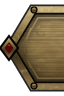
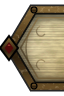
Backdrop: a carved doorway in dusk light; pale brass buttons
The backdrop is a pointed doorway in the middle of a grey-black wall, its
frame carved in receding orders (bead, dog-tooth, voussoirs with sunk
panels, a hood with crockets, capitals, a keystone), with the light of
dusk slanting down from the top right in three layers of shafts at
different depths, drifting slowly. The brass buttons have a pale face and
dark bronze trim.

diff --git a/gate.ts b/gate.ts
@@ -1,7 +1,10 @@
-// The launcher's backdrop, a WGSL shader: a gothic doorway at the top left, light pouring through a rose window
-// behind it, between fluted pillars on a wall of stone blocks; shafts of light, dust drifting in them, a pool of
-// light on the floor and mist, as Path of Exile 2's site opens.
+// The launcher's backdrop, a WGSL shader, after Path of Exile 2's site: a great pointed doorway in the middle of a
+// grey-black wall, its frame carved in receding orders — a bead, dog-tooth, voussoirs with sunk panels, a hood with
+// crockets, on shafts with capitals, a keystone — and the pale light of dusk slanting down from the top right in
+// shafts, three layers of them at different depths, drifting slowly; mist in the doorway, ash in the air.
 export const GATE = /* wgsl */ `
+const PI = 3.14159265;
+
 fn hash(p: vec2f) -> f32 {
   return fract(sin(dot(p, vec2f(127.1, 311.7))) * 43758.5453);
 }
@@ -17,6 +20,12 @@ fn noise(p: vec2f) -> f32 {
   return mix(mix(hash(i), hash(i + vec2f(1.0, 0.0)), u.x), mix(hash(i + vec2f(0.0, 1.0)), hash(i + vec2f(1.0, 1.0)), u.x), u.y);
 }
 
+fn noise1(x: f32) -> f32 {
+  let i = floor(x);
+  let f = fract(x);
+  return mix(hash(vec2f(i, 0.0)), hash(vec2f(i + 1.0, 0.0)), f * f * (3.0 - 2.0 * f));
+}
+
 fn fbm(p: vec2f) -> f32 {
   var v = 0.0;
   var a = 0.5;
@@ -29,40 +38,89 @@ fn fbm(p: vec2f) -> f32 {
   return v;
 }
 
-// Distance-ish to a pointed (equilateral) arch: centre x, half width, spring line, bottom. Negative inside.
-fn arch(p: vec2f, cx: f32, hw: f32, spring: f32, bottom: f32) -> f32 {
+const DOOR_HW = 0.27;
+const DOOR_SPRING = 0.5;
+const FLOOR = 0.95;
+const FRAME = 0.12;
+
+// Distance-ish to the pointed doorway: negative inside.
+fn doorway(p: vec2f, cx: f32) -> f32 {
   var d: f32;
-  if (p.y < spring) {
-    let r = hw * 2.0;
-    d = max(distance(p, vec2f(cx + hw, spring)) - r, distance(p, vec2f(cx - hw, spring)) - r);
+  if (p.y < DOOR_SPRING) {
+    let r = DOOR_HW * 2.0;
+    d = max(distance(p, vec2f(cx + DOOR_HW, DOOR_SPRING)) - r, distance(p, vec2f(cx - DOOR_HW, DOOR_SPRING)) - r);
   } else {
-    d = abs(p.x - cx) - hw;
+    d = abs(p.x - cx) - DOOR_HW;
   }
-  return max(d, p.y - bottom);
+  return max(d, p.y - FLOOR);
 }
 
-// Stone blocks: a running bond of rows; returns (mortar 0..1, the block's own shade).
+// Where along the frame p is: down the jambs from the spring line (negative), round the arch towards the apex.
+fn along(p: vec2f, cx: f32) -> f32 {
+  if (p.y >= DOOR_SPRING) {
+    return -(p.y - DOOR_SPRING);
+  }
+  let side = sign(p.x - cx);
+  let v = p - vec2f(cx - side * DOOR_HW, DOOR_SPRING);
+  return atan2(-v.y, abs(v.x)) * DOOR_HW * 2.0;
+}
+
 fn masonry(p: vec2f) -> vec2f {
-  let rowH = 0.052;
+  let rowH = 0.055;
   let row = floor(p.y / rowH);
-  let blockW = 0.11 + 0.03 * hash(vec2f(row, 7.0));
+  let blockW = 0.12 + 0.04 * hash(vec2f(row, 7.0));
   let x = p.x / blockW + 0.5 * (row % 2.0);
-  let cell = vec2f(floor(x), row);
   let f = vec2f(fract(x) * blockW, fract(p.y / rowH) * rowH);
   let edge = min(min(f.x, blockW - f.x), min(f.y, rowH - f.y));
-  let mortar = smoothstep(0.0035, 0.0, edge);
-  return vec2f(mortar, hash(cell));
+  return vec2f(smoothstep(0.004, 0.0, edge), hash(vec2f(floor(x), row)));
 }
 
-// Tracery of a rose window: a ring, spokes and an inner ring, as a mask of stone.
-fn rose(p: vec2f, c: vec2f, r: f32) -> f32 {
-  let q = p - c;
-  let d = length(q);
-  let a = atan2(q.y, q.x);
-  let ring = smoothstep(0.006, 0.0, abs(d - r)) + smoothstep(0.004, 0.0, abs(d - r * 0.45));
-  let spokes = smoothstep(0.004, 0.0, abs(sin(a * 6.0)) * d) * step(r * 0.45, d) * step(d, r);
-  let petals = smoothstep(0.004, 0.0, abs(length(q - normalize(q + vec2f(1e-5)) * r * 0.72) - r * 0.2)) * step(d, r);
-  return clamp(ring + spokes + petals * 0.8, 0.0, 1.0) * step(d, r + 0.01);
+// The carved frame's relief at p (0 deep .. 1 proud) and how far out p is in it (0 at the opening, 1 outside).
+fn carving(p: vec2f, cx: f32, dd: f32) -> vec2f {
+  let k = dd / FRAME;
+  let s = along(p, cx);
+  let jamb = p.y >= DOOR_SPRING;
+  var tone = 0.0;
+  if (k < 0.22) {
+    // A round bead.
+    tone = 0.25 + 0.75 * sin(k / 0.22 * PI);
+  } else if (k < 0.48) {
+    // Dog-tooth: little pyramids in a row.
+    let u = (k - 0.22) / 0.26;
+    let w = fract(s / 0.034);
+    tone = 0.12 + 0.88 * clamp(1.0 - abs(w - 0.5) * 2.0 - abs(u - 0.5) * 2.0, 0.0, 1.0);
+  } else if (k < 0.78) {
+    // Voussoirs (blocks on the jambs), each with a sunk panel.
+    let u = (k - 0.48) / 0.3;
+    let w = fract(s / select(0.07, 0.05, jamb));
+    let joint = smoothstep(0.06, 0.0, min(w, 1.0 - w));
+    let panel = step(0.18, u) * step(u, 0.82) * step(0.2, w) * step(w, 0.8);
+    tone = 0.55 - 0.3 * panel - 0.45 * joint + 0.15 * (1.0 - abs(u - 0.5) * 2.0);
+  } else {
+    // The hood: a ridge.
+    let u = (k - 0.78) / 0.22;
+    tone = 0.3 + 0.6 * sin(u * PI) * (0.8 + 0.2 * cos(u * 9.0));
+  }
+  // Capitals at the spring line, bases at the floor.
+  let capital = smoothstep(0.02, 0.0, abs(p.y - DOOR_SPRING - 0.01));
+  let leaf = 0.5 + 0.5 * sin(p.x * 220.0) * sin((p.y - DOOR_SPRING) * 240.0);
+  tone = mix(tone, 0.45 + 0.45 * leaf, capital);
+  let base = smoothstep(0.03, 0.0, abs(p.y - (FLOOR - 0.03))) * f32(jamb);
+  tone = mix(tone, 0.5 + 0.3 * cos((p.y - FLOOR) * 200.0), base);
+  return vec2f(tone * (0.6 + 0.6 * fbm(p * 26.0)), k);
+}
+
+// Shafts of dusk light slanting down from the top right: one layer at a given depth — its spacing, width, strength
+// and drift — as a pattern across the slant, fading as the light travels.
+fn shaftLayer(p: vec2f, aspect: f32, seed: f32, density: f32, width: f32, speed: f32, t: f32) -> f32 {
+  let dir = normalize(vec2f(-0.55, 1.0));
+  let across = vec2f(dir.y, -dir.x);
+  let x = dot(p, across);
+  let along = dot(p - vec2f(aspect, 0.0), dir);
+  let pattern = noise1(x * density + seed * 37.0 + t * speed);
+  let shaft = smoothstep(1.0 - width, 1.0, pattern);
+  let breakup = 0.6 + 0.4 * noise(vec2f(x * density * 0.5 + seed, along * 2.0 - t * speed * 0.6));
+  return shaft * breakup * exp(-max(along, 0.0) * 0.6);
 }
 
 fn shade(uv: vec2f) -> vec4f {
@@ -70,106 +128,91 @@ fn shade(uv: vec2f) -> vec4f {
   let p = vec2f(uv.x * aspect, uv.y);
   let t = nsh.time;
 
-  let cx = 0.22 * min(aspect, 1.8);
-  let lightPos = vec2f(cx, 0.3);
-  let lightCol = vec3f(0.74, 0.85, 1.0);
-  let toLight = distance(p, lightPos);
-  let lit = exp(-toLight * 2.0);
+  let cx = 0.5 * aspect;
+  // Dusk: a pale light, faintly warm, against grey-black stone.
+  let dusk = vec3f(0.95, 0.92, 0.86);
+  // The light falls from the top right.
+  let fromLight = exp(-distance(p, vec2f(aspect * 0.95, -0.1)) * 1.1);
 
-  // The wall: blocks of cold stone, weathered, lit from the door.
+  // The wall: grey-black blocks, stained and sooty.
   let m = masonry(p);
   let weather = fbm(p * 9.0);
-  // Grime: broad stains running down the wall, and soot.
   let stain = fbm(vec2f(p.x * 3.0, p.y * 0.8) + 11.0);
   let soot = smoothstep(0.35, 0.75, fbm(p * 2.2 + 5.0));
-  var col = vec3f(0.042, 0.045, 0.052) * (0.65 + 0.5 * m.y) * (0.45 + 0.9 * weather) * (0.55 + 0.6 * stain);
-  col *= 1.0 - 0.55 * soot;
-  col = mix(col, vec3f(0.008, 0.008, 0.01), m.x * 0.6 * (0.5 + weather));
-  col *= 0.55 + 1.5 * lit;
+  var col = vec3f(0.034, 0.034, 0.036) * (0.65 + 0.5 * m.y) * (0.45 + 0.9 * weather) * (0.55 + 0.6 * stain);
+  col *= 1.0 - 0.5 * soot;
+  col = mix(col, vec3f(0.005), m.x * 0.55);
+  col *= 0.5 + 1.6 * fromLight;
 
-  // Fluted pillars either side of the door, round and lit on the door's side.
-  for (var side = -1.0; side <= 1.0; side += 2.0) {
-    let px = cx + side * 0.23;
-    let w = 0.045;
-    let u = (p.x - px) / w;
-    if (abs(u) < 1.0 && p.y > 0.06) {
-      let round = sqrt(1.0 - u * u);
-      let flutes = 0.75 + 0.25 * cos(u * 18.0);
-      let facing = clamp(0.5 - 0.5 * u * side, 0.0, 1.0);
-      var pillar = vec3f(0.07, 0.075, 0.085) * round * flutes * (0.4 + 1.4 * facing * lit) * (0.7 + 0.5 * fbm(p * 14.0));
-      // A capital and a base.
-      let cap = smoothstep(0.012, 0.0, abs(p.y - 0.14)) + smoothstep(0.012, 0.0, abs(p.y - 0.86));
-      pillar += vec3f(0.09, 0.095, 0.11) * cap * (0.5 + facing * lit);
-      col = pillar;
+  // The frame, lit from the top right: the faces turned to the light are brighter.
+  let dd = doorway(p, cx);
+  let rightSide = smoothstep(-0.1, 0.25, p.x - cx);
+  if (dd > 0.0 && dd < FRAME) {
+    let carved = carving(p, cx, dd);
+    let lit = 0.45 + 1.8 * fromLight + 0.5 * rightSide * (1.0 - carved.y);
+    col = vec3f(0.058, 0.058, 0.06) * carved.x * lit;
+    col += dusk * 0.12 * smoothstep(0.004, 0.0, abs(dd - FRAME)) * (0.3 + rightSide);
+  }
+  // Crockets: leaves climbing the outer edge of the arch.
+  if (p.y < DOOR_SPRING && dd > FRAME && dd < FRAME + 0.022) {
+    let w = fract(along(p, cx) / 0.075);
+    let leaf = smoothstep(0.022, 0.0, (dd - FRAME) + abs(w - 0.5) * 0.06);
+    col = mix(col, vec3f(0.062, 0.062, 0.065) * (0.5 + 1.6 * fromLight), leaf);
+  }
+  // The keystone at the apex.
+  let apex = vec2f(cx, DOOR_SPRING - DOOR_HW * 1.732);
+  let ky = p.y - apex.y + 0.035;
+  let kw = 0.03 - ky * 0.25;
+  if (abs(p.x - cx) < kw && abs(ky) < 0.06 && dd > -0.01) {
+    col = vec3f(0.07, 0.07, 0.073) * (0.6 + 0.4 * fbm(p * 30.0)) * (0.6 + 1.5 * fromLight);
+    col += dusk * 0.15 * smoothstep(0.004, 0.0, abs(abs(p.x - cx) - kw));
+  }
+
+  // Beyond the door: a pale haze, brightest high on the right, mist drifting through it.
+  let open = step(dd, 0.0);
+  if (open > 0.5) {
+    let haze = fbm(p * vec2f(2.5, 1.8) + vec2f(-t * 0.02, t * 0.008));
+    let glow = smoothstep(0.9, -0.1, distance(p, vec2f(cx + 0.2, 0.15)));
+    col = mix(vec3f(0.05, 0.05, 0.055), dusk * 0.85, clamp(glow * (0.55 + 0.6 * haze), 0.0, 1.0));
+    // The floor beyond, catching the light.
+    if (p.y > FLOOR - 0.14) {
+      col *= 0.7 + 0.3 * fbm(vec2f(p.x * 18.0, (p.y - FLOOR) * 50.0));
     }
   }
+  // Light spilling round the doorway's edge onto the frame.
+  col += dusk * 0.1 * exp(-max(dd, 0.0) * 18.0) * (1.0 - open) * (0.4 + rightSide);
 
-  // Receding orders of the arch, each a step deeper and darker.
-  let d0 = arch(p, cx, 0.1, 0.24, 0.84);
-  for (var k = 3.0; k >= 1.0; k -= 1.0) {
-    let dk = arch(p, cx, 0.1 + 0.022 * k, 0.24, 0.84 + 0.012 * k);
-    let band = smoothstep(0.003, -0.003, dk) * smoothstep(-0.003, 0.003, arch(p, cx, 0.1 + 0.022 * (k - 1.0), 0.24, 0.84 + 0.012 * (k - 1.0)));
-    let stone = vec3f(0.08, 0.085, 0.095) * (0.45 + 0.25 * (3.0 - k)) * (0.6 + 0.7 * fbm(p * 20.0 + k));
-    col = mix(col, stone * (0.6 + 1.8 * lit), band);
-    // The edge of each order catches the light.
-    col += lightCol * 0.12 * lit * smoothstep(0.004, 0.0, abs(dk));
-  }
+  // Shafts of dusk light from the top right, three layers at different depths: near ones broad, bright and slow,
+  // far ones fine, faint and quicker. They are seen against the dark, less so against the light.
+  let far = shaftLayer(p, aspect, 1.0, 9.0, 0.4, 0.05, t) * 0.22;
+  let mid = shaftLayer(p, aspect, 2.0, 5.0, 0.36, 0.03, t) * 0.34;
+  let nearL = shaftLayer(p, aspect, 3.0, 2.6, 0.3, 0.018, t) * 0.45;
+  let shafts = (far + mid + nearL) * (0.6 + 0.6 * fbm(p * 2.5 + vec2f(t * 0.03, 0.0)));
+  col += dusk * shafts * (1.0 - 0.5 * open);
 
-  // Through the door: the light, fog drifting over it, and the rose window's tracery against it.
-  let inside = smoothstep(0.003, -0.003, d0);
-  let fog = fbm(p * 3.0 + vec2f(t * 0.03, -t * 0.018));
-  let core = exp(-pow(length((p - lightPos) * vec2f(1.0, 0.7)) * 3.4, 1.3));
-  var door = mix(vec3f(0.05, 0.08, 0.14), lightCol * 0.95, core) * (0.7 + 0.5 * fog);
-  let tracery = rose(p, lightPos, 0.075);
-  door = mix(door, vec3f(0.03, 0.035, 0.05), tracery * 0.85);
-  // Mullions under the rose.
-  let mull = smoothstep(0.003, 0.0, abs(p.x - cx)) * step(lightPos.y + 0.075, p.y);
-  door = mix(door, vec3f(0.03, 0.035, 0.05), mull * 0.8);
-  col = mix(col, door, inside);
-
-  // Shafts of light fanning down and out of the door, slowly turning.
-  let outside = 1.0 - inside;
-  let dir = p - lightPos;
-  let angle = atan2(dir.y, dir.x);
-  let shafts = pow(noise(vec2f(angle * 7.0 + t * 0.05, 3.0)), 2.5) * 0.7 + pow(noise(vec2f(angle * 15.0 - t * 0.08, 9.0)), 4.0) * 0.5;
-  let fall = exp(-length(dir) * 1.4) * smoothstep(-0.2, 0.6, dir.y / (length(dir) + 1e-4));
-  col += lightCol * 0.2 * shafts * fall * outside;
-  // Spill onto the stone around the door.
-  col += lightCol * 0.22 * exp(-max(d0, 0.0) * 9.0) * outside * (0.7 + 0.3 * fog);
-
-  // Dust drifting up through the light.
-  var dust = 0.0;
+  // Ash drifting down through the light.
+  var ash = 0.0;
   for (var layer = 0.0; layer < 3.0; layer += 1.0) {
-    let scale = 26.0 + layer * 14.0;
-    let q = p * scale + vec2f(layer * 13.1, t * (0.25 + 0.1 * layer));
-    let cell = floor(q);
-    let jitter = hash2(cell + layer);
-    let speck = 1.0 - smoothstep(0.0, 0.06 + 0.04 * jitter.x, length(fract(q) - jitter));
-    let twinkle = 0.5 + 0.5 * sin(t * (1.0 + 2.0 * jitter.y) + jitter.x * 6.28);
-    dust += speck * twinkle * step(0.7, hash(cell + 3.1 + layer));
+    let scale = 22.0 + layer * 16.0;
+    let drift = vec2f(sin(t * 0.25 + layer) * 0.3 - t * 0.05, -t * (0.12 + 0.05 * layer));
+    let g = p * scale + drift + layer * 17.0;
+    let cell = floor(g);
+    let j = hash2(cell);
+    let speck = 1.0 - smoothstep(0.0, 0.05 + 0.05 * j.x, length(fract(g) - j));
+    ash += speck * step(0.74, hash(cell + 4.0));
   }
-  col += lightCol * dust * 0.55 * exp(-toLight * 2.6);
+  col += dusk * ash * 0.3 * (0.3 + shafts * 4.0);
 
-  // A pool of light on the floor below the door, and mist drifting across it.
-  let floorY = 0.86;
-  if (p.y > floorY) {
-    let fp = vec2f((p.x - cx) / (0.35 + (p.y - floorY) * 2.0), (p.y - floorY) * 6.0);
-    col += lightCol * 0.18 * exp(-dot(fp, fp) * 3.0);
-  }
-  let mist = fbm(p * vec2f(1.4, 3.5) + vec2f(-t * 0.022, 0.0));
-  col += vec3f(0.26, 0.31, 0.4) * mist * smoothstep(0.35, 1.0, uv.y) * 0.22;
-  // Haze hanging in the air.
-  col += vec3f(0.18, 0.21, 0.27) * fbm(p * 1.2 + vec2f(t * 0.01, t * 0.006)) * 0.06;
+  // Mist on the floor, haze in the air.
+  let mist = fbm(p * vec2f(1.4, 3.5) + vec2f(-t * 0.025, 0.0));
+  col += vec3f(0.2, 0.2, 0.21) * mist * smoothstep(0.45, 1.0, uv.y) * 0.2;
 
-  // Darker away from the light, so what is drawn over it reads.
-  let vig = smoothstep(1.3, 0.1, distance(uv, vec2f(0.22, 0.3)));
-  col *= 0.16 + 0.84 * vig;
-  // Black at the edges, as an old painting darkens.
+  // Black at the edges, deep shadows.
+  let vig = smoothstep(1.05, 0.15, distance(uv, vec2f(0.55, 0.45)));
+  col *= 0.08 + 0.92 * vig;
   let edge = uv * (1.0 - uv);
   col *= pow(clamp(edge.x * edge.y * 18.0, 0.0, 1.0), 0.35);
-  // Drained of colour but for the cold light.
-  let grey = dot(col, vec3f(0.3, 0.59, 0.11));
-  col = mix(vec3f(grey), col, 0.75);
+  col = pow(max(col, vec3f(0.0)), vec3f(1.15)) * 1.15;
   return vec4f(col, 1.0);
 }
 `;

diff --git a/App.tsx b/App.tsx
@@ -139,7 +139,7 @@ function strings(language: string | null): Strings {
 // Path of Exile 2's look: aged gold trim, plaques with pointed ends, cold light through a gothic door.
 const C = {
   bg: "#07080a",
-  panel: "rgba(9,9,10,0.82)",
+  panel: "rgba(5,6,9,0.9)",
   trim: "#6b522c",
   trimHi: "#b18d4e",
   gold: "#d8bd85",
@@ -435,7 +435,7 @@ function Launcher(props: { onStart: () => void }) {
             PATH OF BUILDING
           </Text>
           <Image src={rule} style={{ width: 560, height: 19 }} />
-          <Text style={{ fontFamily: BODY, fontSize: 14, color: C.text, textShadow: "0 1px 2px #000" }}>{t().subtitle}</Text>
+          <Text style={{ fontFamily: BODY, fontSize: 14, color: C.text, textShadow: "0 0 3px #000, 0 0 8px #000, 0 0 14px #000, 0 1px 2px #000" }}>{t().subtitle}</Text>
         </View>
 
         {/* Games */}
